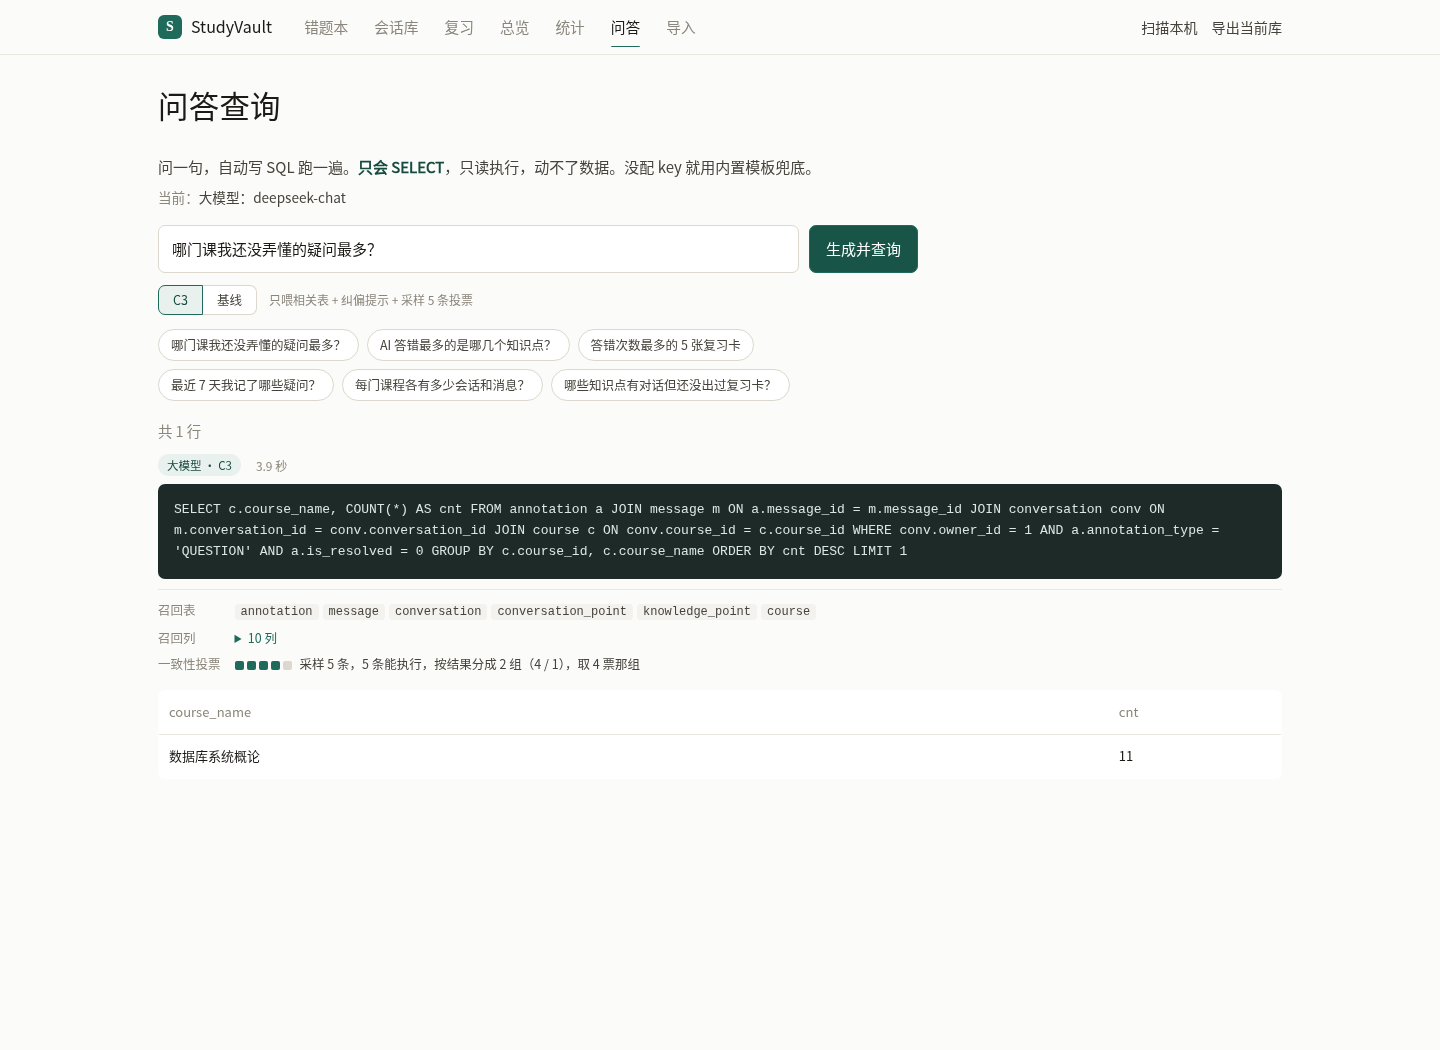
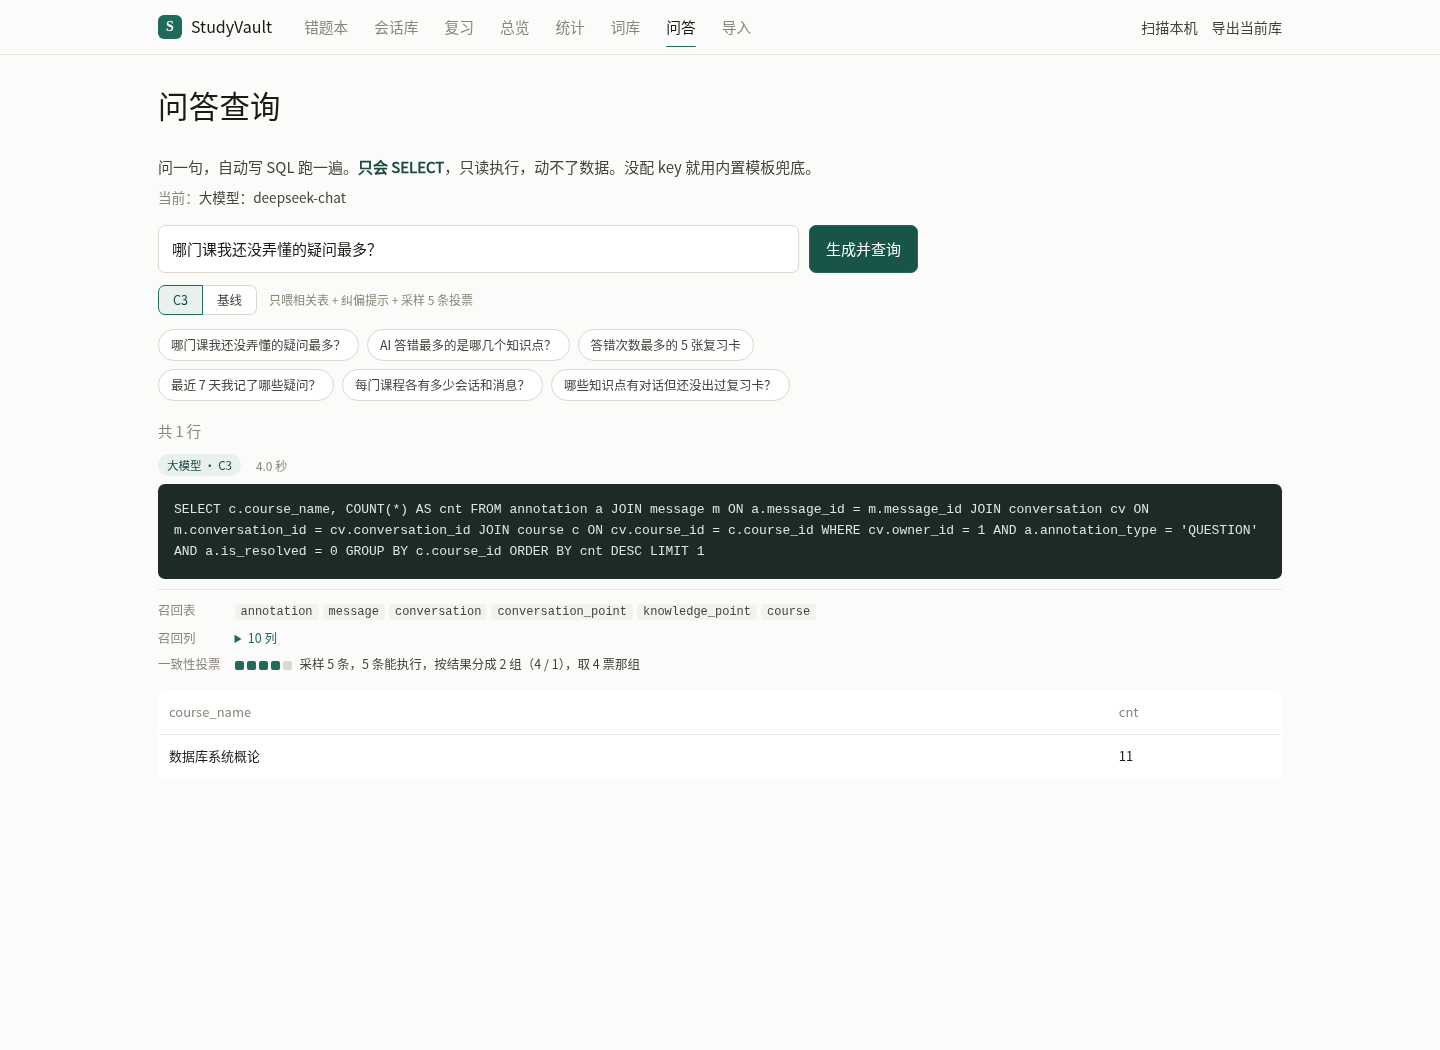
重拍报告截图 S01–S09，改写 S06、S08 说明
合并词库后用 browser_check.py --capture-report 在临时库上重拍（S08 实际调用 deepseek-chat）。S01–S05、S07、S09 的数字与正文一致。S06 新增标签/知识点选择框，第 1 条消息移出画面，说明随之改写；S08 补上本次召回的表和列、投票分布、耗时和 SQL 的含义。

Changed region(s): [[0.125, 0.4876, 0.5312, 0.5486], [0.5312, 0.4571, 0.875, 0.5486]]

diff --git a/docs/PROJECT_REPORT.md b/docs/PROJECT_REPORT.md
@@ -408,7 +408,7 @@ S01–S09 由 `tests/browser_check.py --capture-report` 在临时数据库上跑
 
 ### S06 会话库
 
-会话库左边是会话列表，每行标出是否读过、读到第几条和还有几条批注没解决。右边打开的是《2PL 与死锁的误区讨论》，上方是会话标注和知识点，“AI 建议”按钮只在点击时把这段对话发给大模型。第 1 条消息下的黄色批注是 S04 里新记的疑问。
+会话库左边是会话列表，每行标出是否读过、读到第几条和还有几条批注没解决。右边打开的是《2PL 与死锁的误区讨论》，从上到下依次是会话深读标注、摘要、知识点和标签。这段会话挂在已确认的“事务与并发”下，旁边的“AI 建议”按钮只在点击时把这段对话发给大模型。再往下是标签和知识点的词库选择框，深读标注里的主题可以点“加入标签”带进标签框。S04 里新记的疑问在第 1 条消息下，不在这张图的画面里。
 
 ![会话库](screenshots/06-library.png)
 
@@ -420,7 +420,7 @@ S01–S09 由 `tests/browser_check.py --capture-report` 在临时数据库上跑
 
 ### S08 问答
 
-问题是“哪门课我还没弄懂的疑问最多？”。C3 召回了 6 张表，5 条采样都能执行，按结果分成两组，取 4 票那组的 SQL，答案是数据库系统概论 11 个。SQL 下方的召回表、召回列和投票方块对应 C3 的三个步骤。
+问题是“哪门课我还没弄懂的疑问最多？”，用 C3 模式、`deepseek-chat` 生成，整个过程 4.0 秒。C3 先召回 6 张表（`annotation`、`message`、`conversation`、`conversation_point`、`knowledge_point`、`course`）和其中 10 列，再采样 5 条 SQL。5 条都能执行，按结果分成 4 票和 1 票两组，取 4 票那组。这条 SQL 从批注经消息、会话连到课程，只数类型为疑问且还没解决的批注，按课程计数后取最多的一门，答案是数据库系统概论 11 个。召回的 `conversation_point` 和 `knowledge_point` 最后没有用上，问题按课程统计，用不到知识点。SQL 下方的召回表、召回列和投票方块分别对应 C3 的三个步骤。
 
 ![Text2SQL 问答](screenshots/08-text2sql.png)
 
